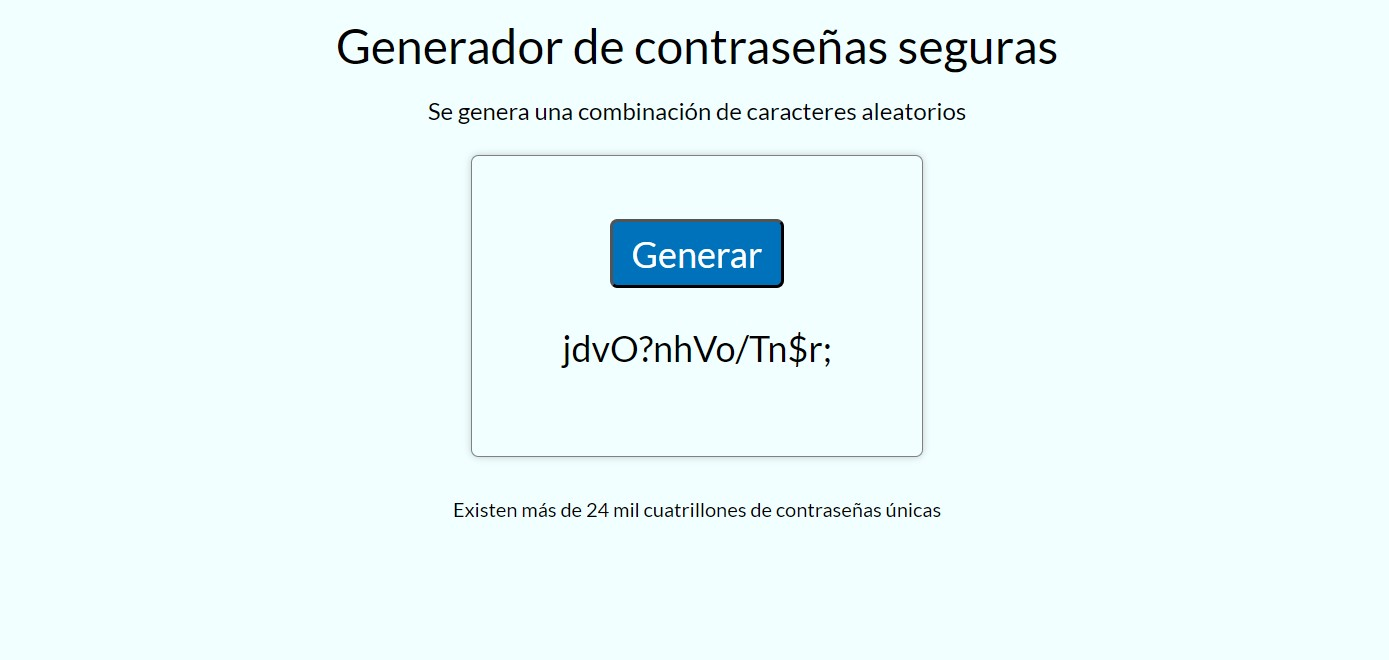
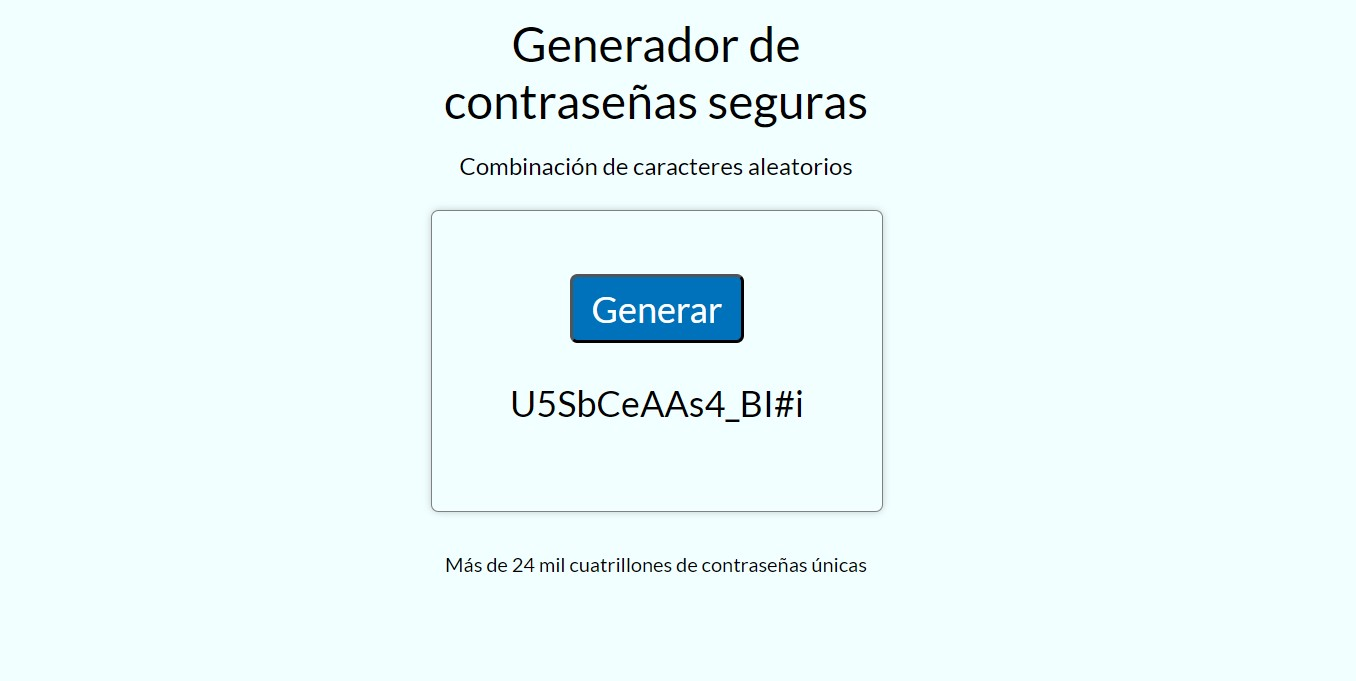
[FEAT] Ajustes de estilos para mobile

diff --git a/index.html b/index.html
@@ -11,12 +11,12 @@
 </head>
 <body>
     <h1>Generador de contraseñas seguras</h1>
-    <p>Se genera una combinación de caracteres aleatorios</p>
+    <p>Combinación de caracteres aleatorios</p>
     <div id="container">
         <button type="button" id="btnGenerate">Generar</button>
         <p id="passWord">?</p>
     </div>
-    <sub>Existen más de 24 mil cuatrillones de contraseñas únicas</sub>
+    <sub>Más de 24 mil cuatrillones de contraseñas únicas</sub>
 
     <script src="script.js"></script>
 </body>

diff --git a/styles.css b/styles.css
@@ -8,7 +8,7 @@
 }
 
 body{
-    width: 500px;
+    width: 300px;
     margin: 0 auto;
     text-align: center;
 
